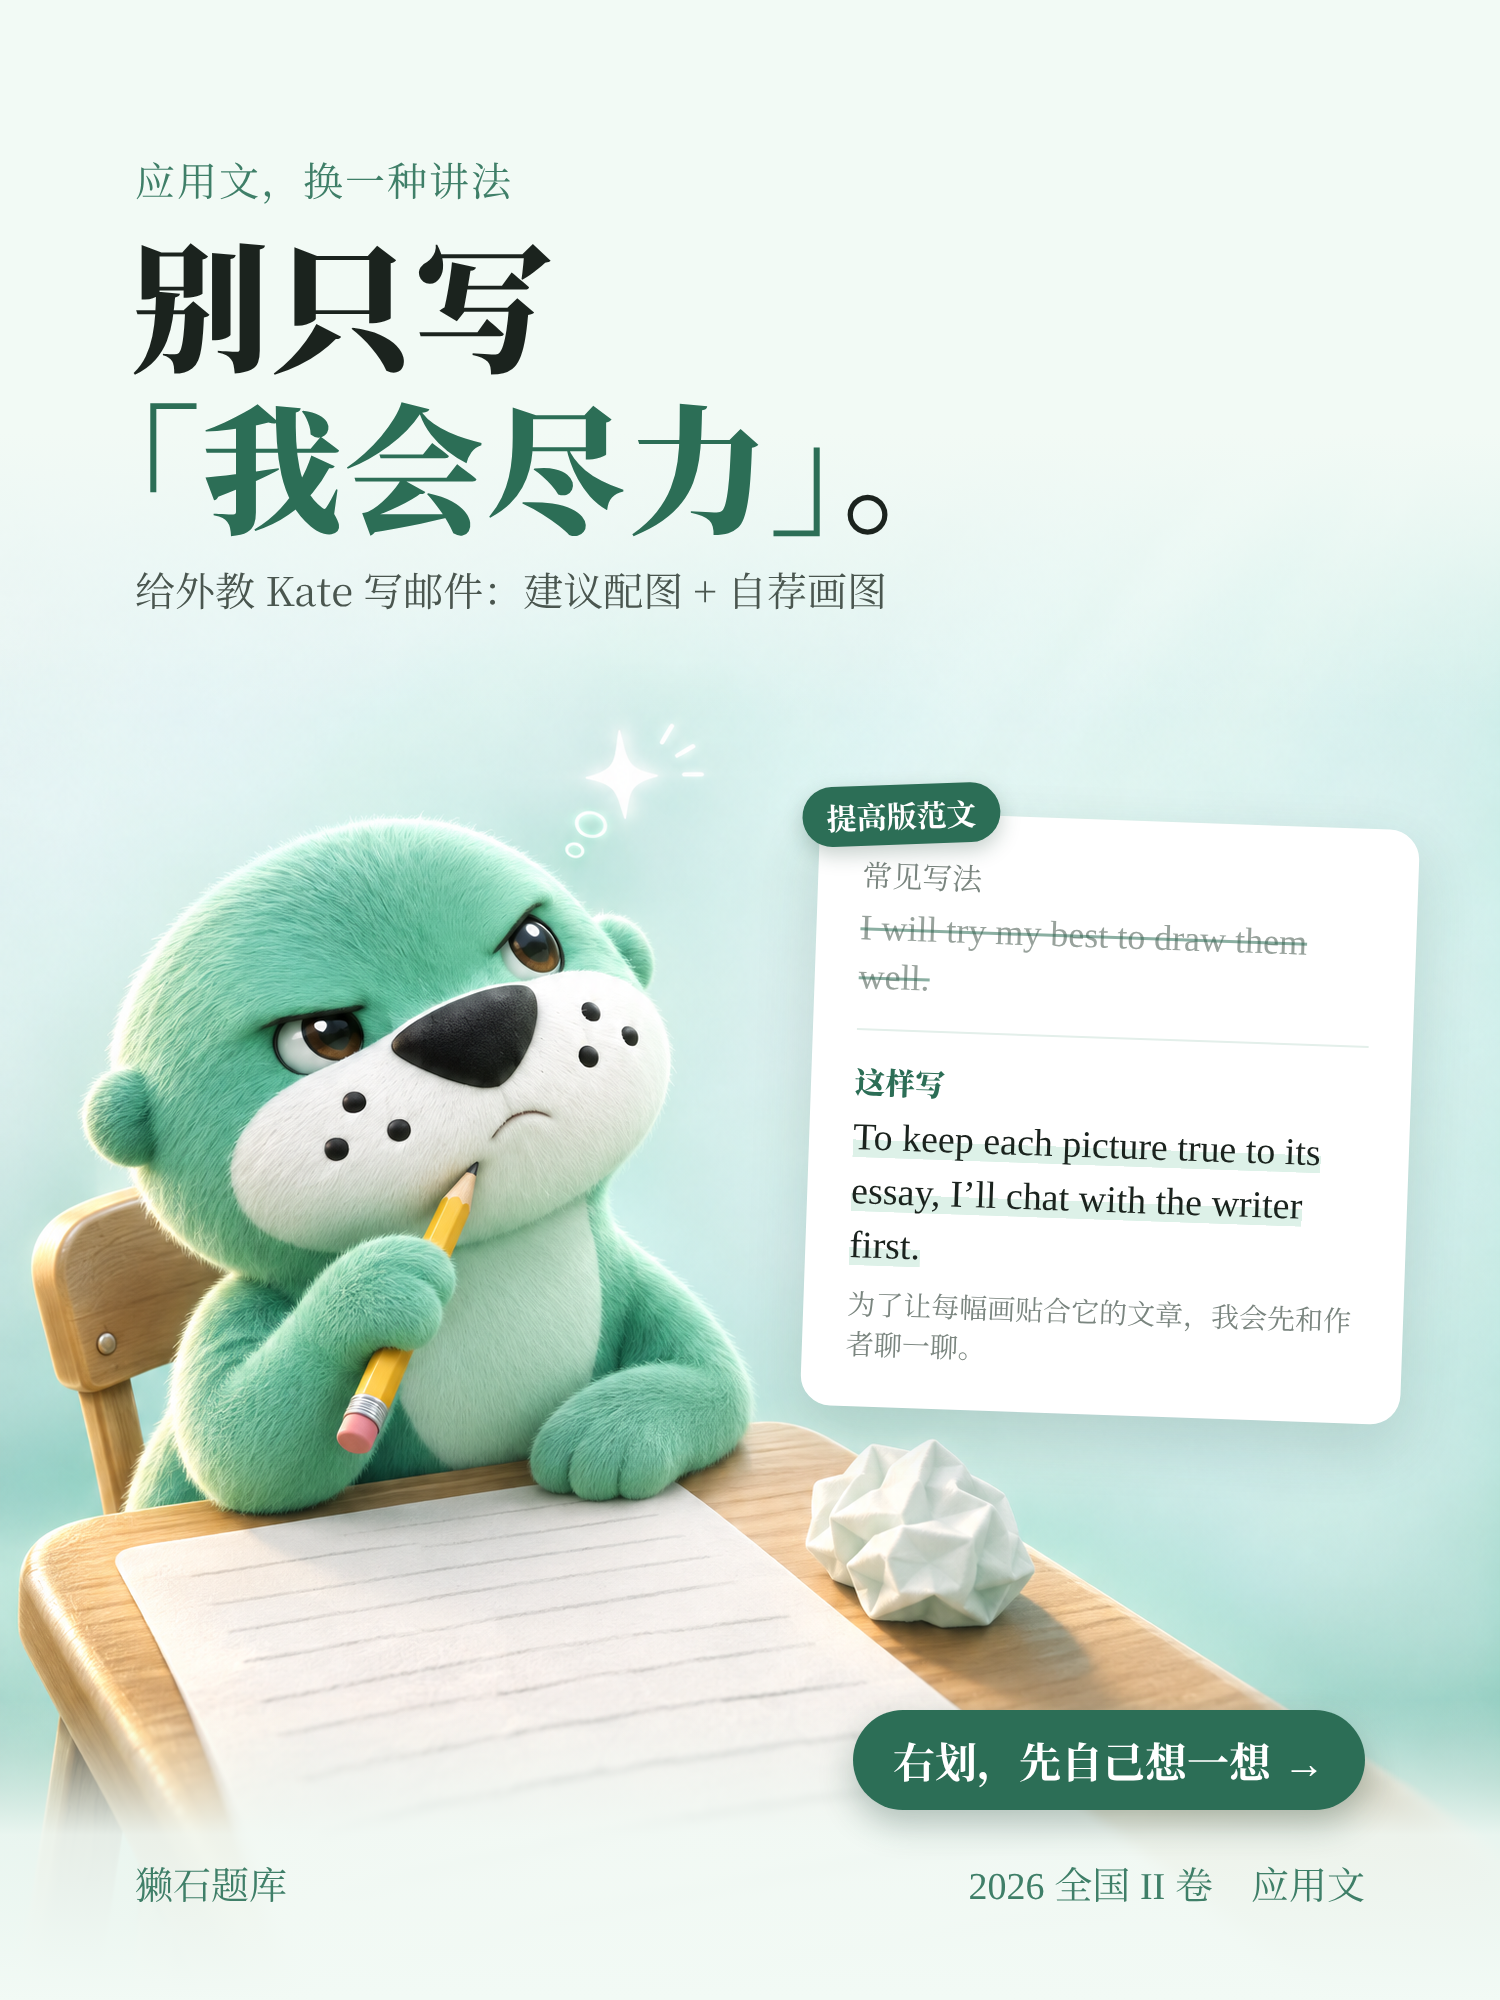
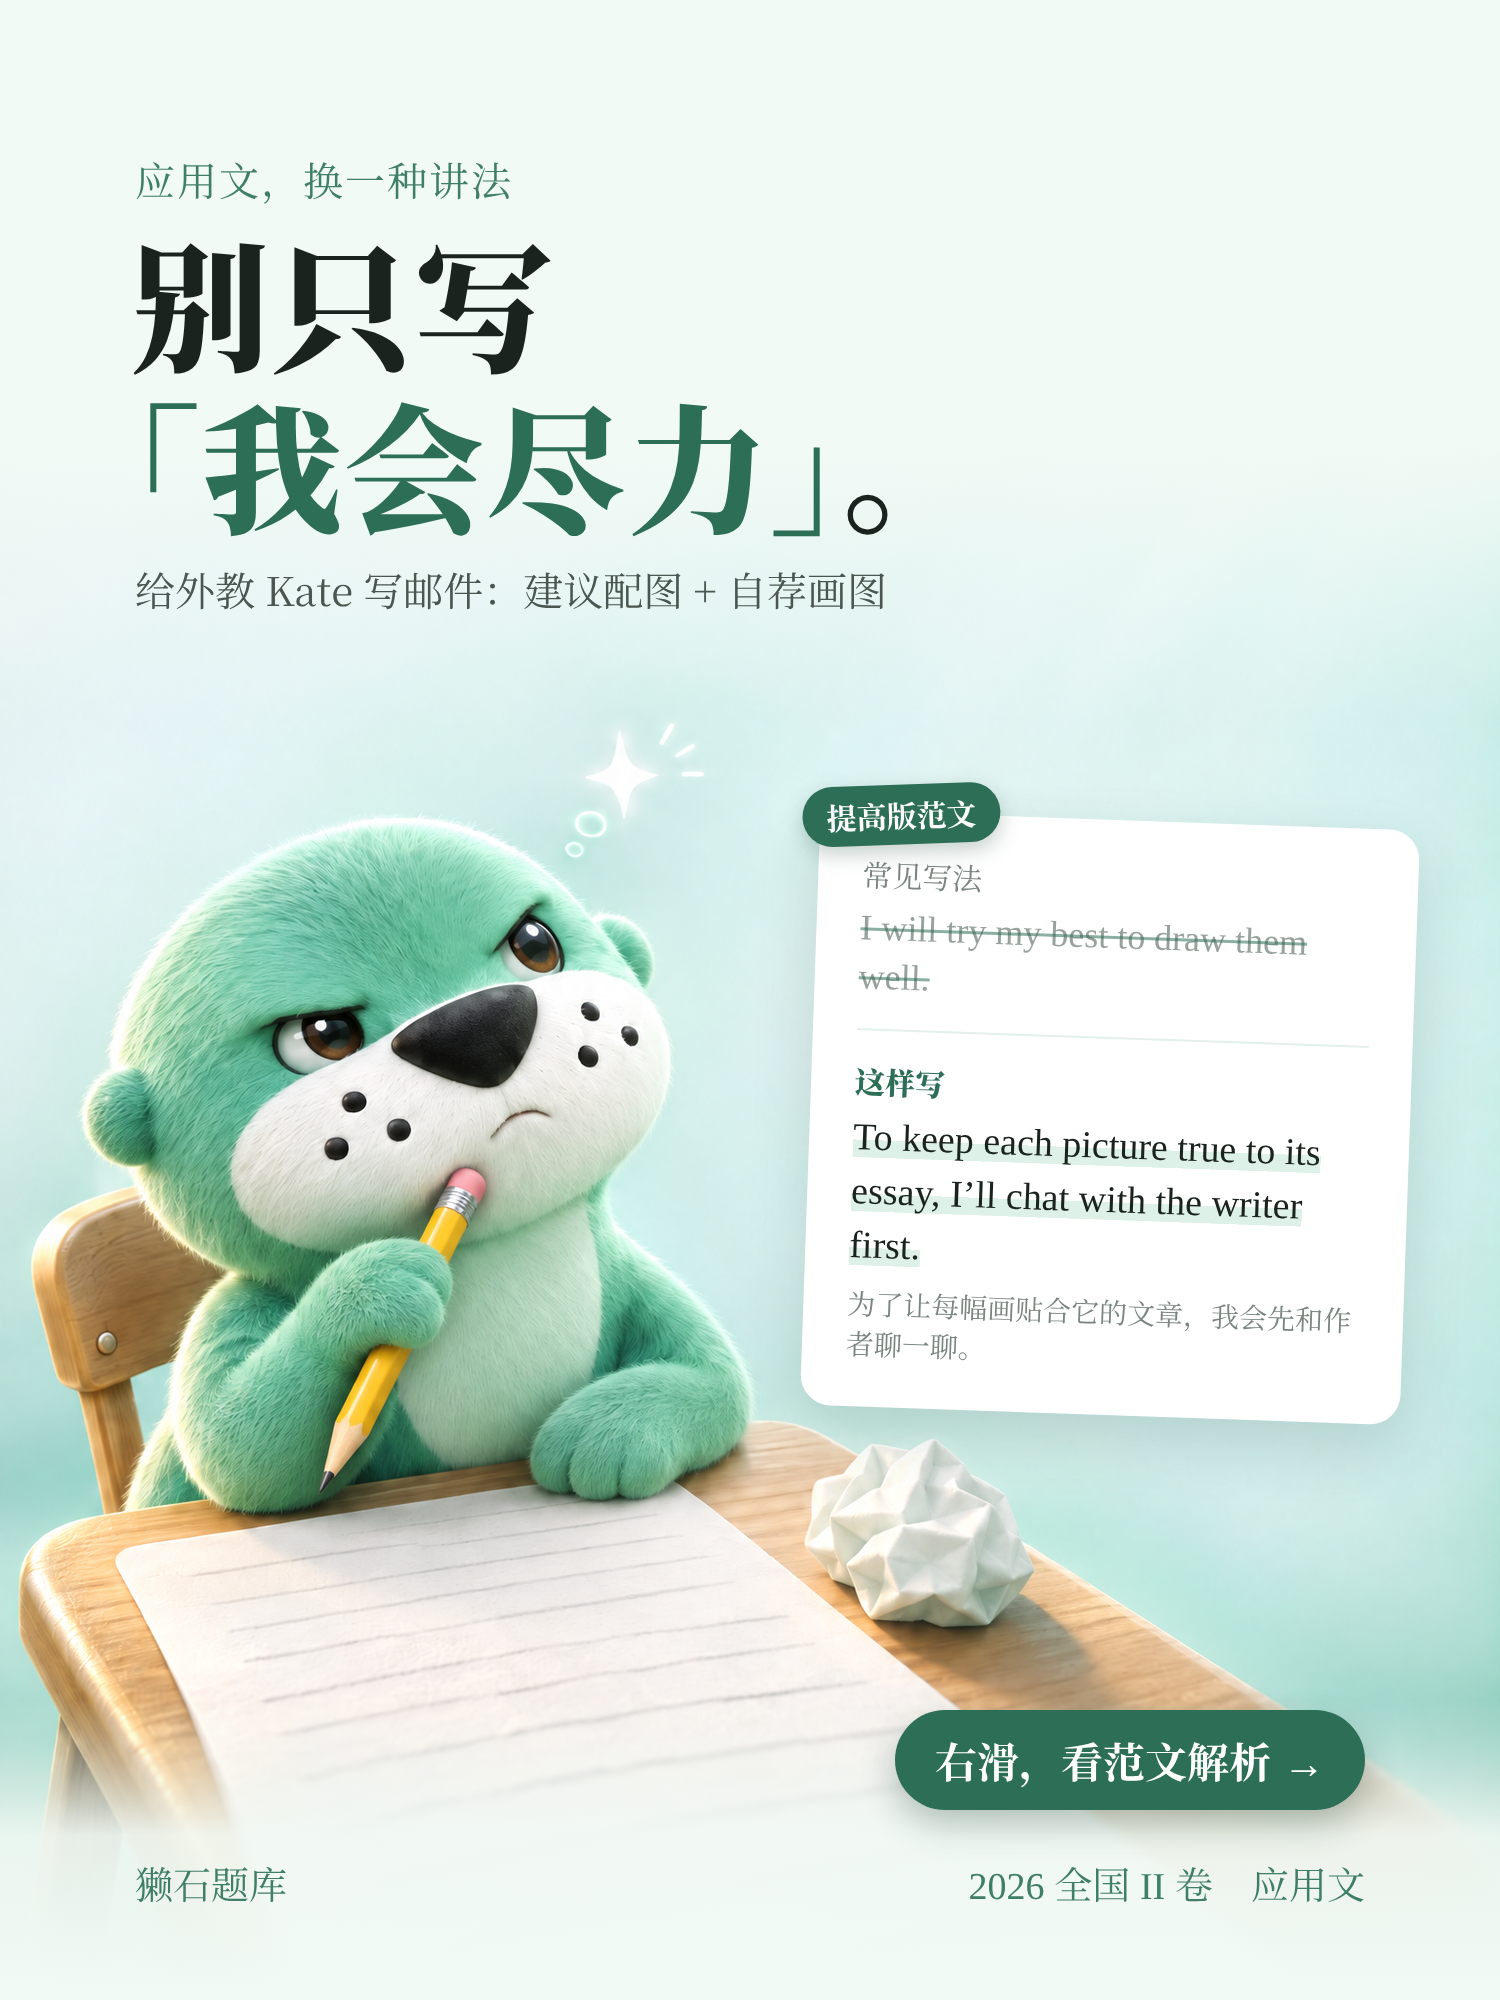
Writing cover: eraser end on the chin, swipe prompt points to the model essay
Claude-Session: https://claude.ai/code/session_01Ct2ZKAR8eRNsJG4UDaFzH4

diff --git a/design/social-2026-11-22/writing-cover/cover5.html b/design/social-2026-11-22/writing-cover/cover5.html
@@ -5,7 +5,7 @@
 :root{--ink:#1B231E;--green:#3F7F68;--deep:#2C6E56;--mute:#7A857F;--chip:#DDF1E8;--paper:#F2FAF5}
 *{margin:0;box-sizing:border-box}
 body{width:1500px;height:2000px;position:relative;overflow:hidden;background:var(--paper);font-family:"Liberation Serif",NS,serif;color:var(--ink)}
-.bg{position:absolute;inset:0;background:url(T1.png) center/cover}
+.bg{position:absolute;inset:0;background:url(T3.png) center/cover}
 .fadeTop{position:absolute;left:0;right:0;top:0;height:720px;background:linear-gradient(var(--paper) 0,var(--paper) 60%,rgba(242,250,245,0))}
 .kicker{position:absolute;left:135px;top:150px;font:400 40px NS;color:var(--green);letter-spacing:2px}
 h1{position:absolute;left:130px;top:220px;font:900 140px/1.16 NS;letter-spacing:2px}
@@ -35,6 +35,6 @@ h1 q{quotes:"「" "」";color:var(--deep)}
   <div class="sep"></div>
   <div class="row"><span class="lab good">这样写</span><div><span class="new">To keep each picture true to its essay, I’ll chat with the writer first.</span></div><div class="zh">为了让每幅画贴合它的文章，我会先和作者聊一聊。</div></div>
 </div>
-<div class="footbg"></div><div class="cta">右划，先自己想一想<span>→</span></div>
+<div class="footbg"></div><div class="cta">右滑，看范文解析<span>→</span></div>
 <div class="foot"><span>獭石题库</span><span><span>2026</span> 全国 <span>II</span> 卷　应用文</span></div>
 </body></html>

diff --git a/design/social-2026-11-22/writing-cover/README.md b/design/social-2026-11-22/writing-cover/README.md
@@ -1,5 +1,6 @@
 # Ins 轮播封面 · 应用文新讲法（2026-11-24）
 
 - `cover5.png`：成品，1500×2000（3:4），配 2026 全国 II 卷应用文（给外教 Kate 写邮件）的内页。版式跟内页：雾白底、衬线黑标题、底栏「獭石题库」。
-- `T1.png`：现用底图，獭獭坐在桌前铅笔抵下巴认真想（提示词 `prompt-T1.txt`）。`T2.png`、`W1.png` 是没选的两版，对比见 `contact-W.png`。参考图是听力封面的 3D 獭獭 `../listening-cover/L5.png` 和 3D 母版。
+- `T3.png`：现用底图，从 `T1.png` 只把铅笔掉头，橡皮那头抵下巴（`prompt-T3.txt`，对比 `T-compare.png`）。
+- `T1.png`：第一版底图，獭獭坐在桌前铅笔抵下巴认真想（提示词 `prompt-T1.txt`）。`T2.png`、`W1.png` 是没选的两版，对比见 `contact-W.png`。参考图是听力封面的 3D 獭獭 `../listening-cover/L5.png` 和 3D 母版。
 - `cover5.html`：排版源文件，字体替换 `FONTS_SERIF`（见 `../ins-magnifier/cover/README.md`）。
